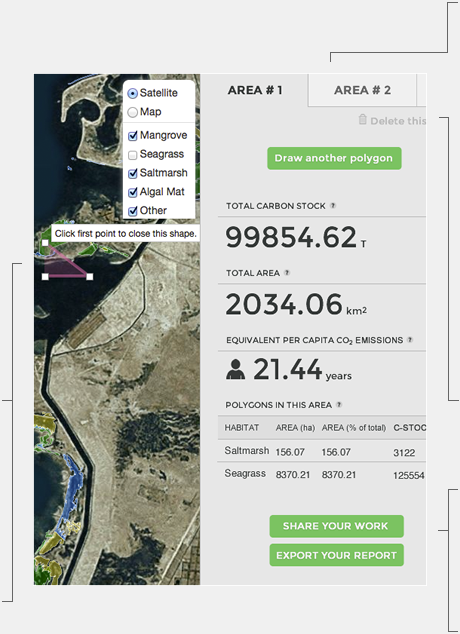
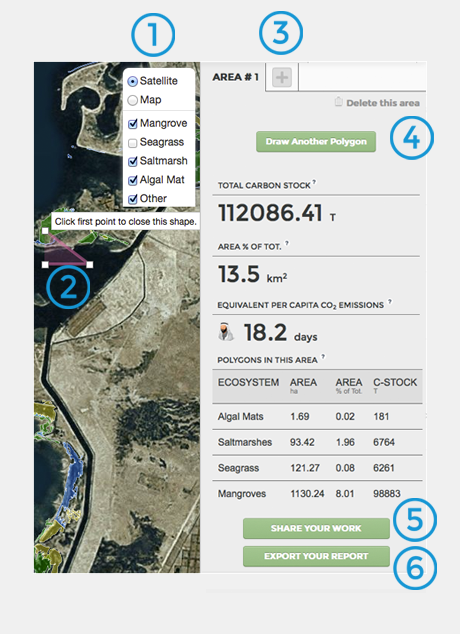
re-style help pages with numbers instead of lines linking to text

diff --git a/app/assets/stylesheets/pages/pages.scss b/app/assets/stylesheets/pages/pages.scss
@@ -56,7 +56,9 @@ body {
   }
 
   p.bold {
+	  font-family: 'Montserrat', Arial, 'Helvetica Neue', sans-serif;
     font-weight: bold;
+		color: #1596d4;
   }
 
   p.big-bold {
@@ -77,7 +79,6 @@ body {
   .light-blue.ar {
     font-size: 1.6em;
   }
-
 
   #img-mangroves {
     width: 462px;
